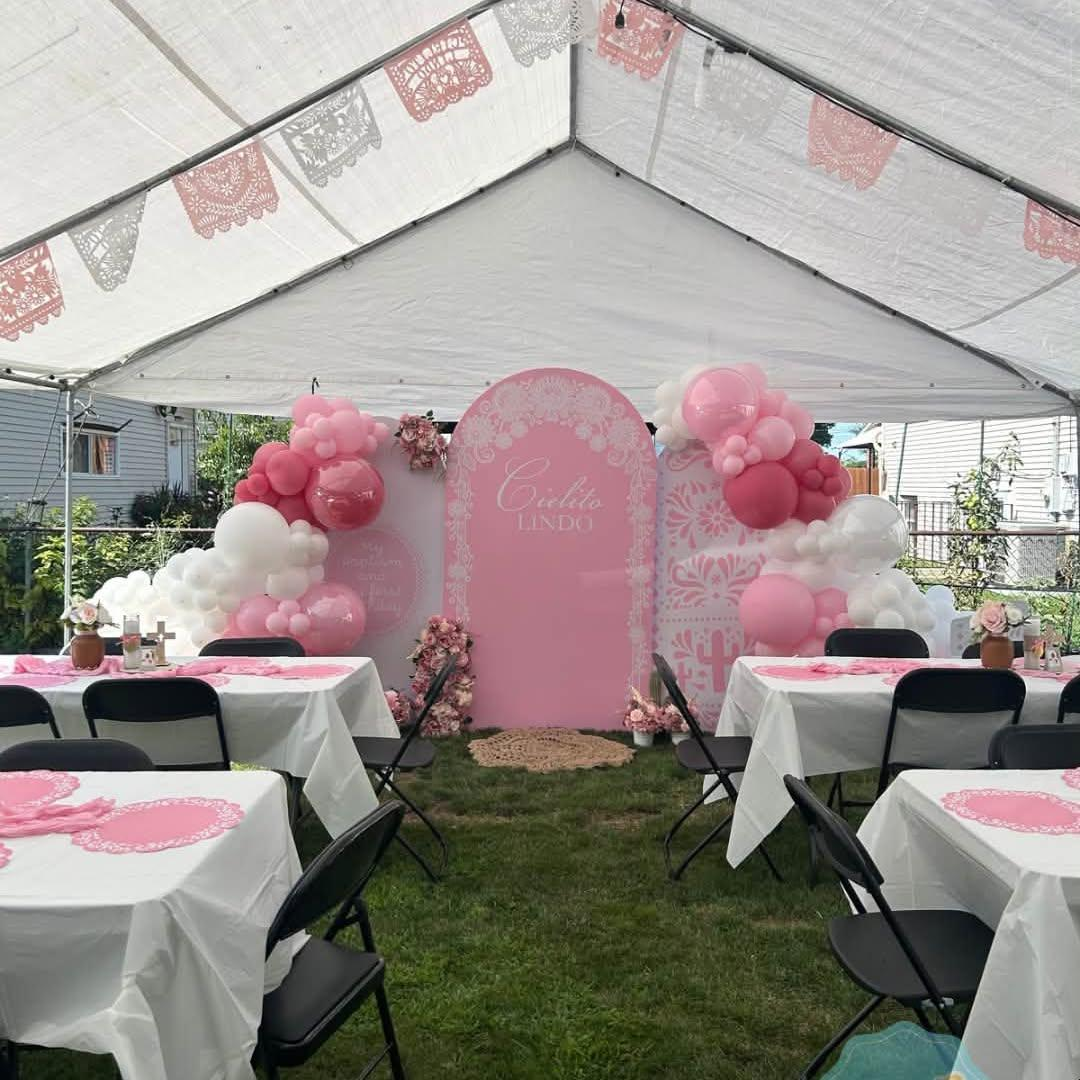
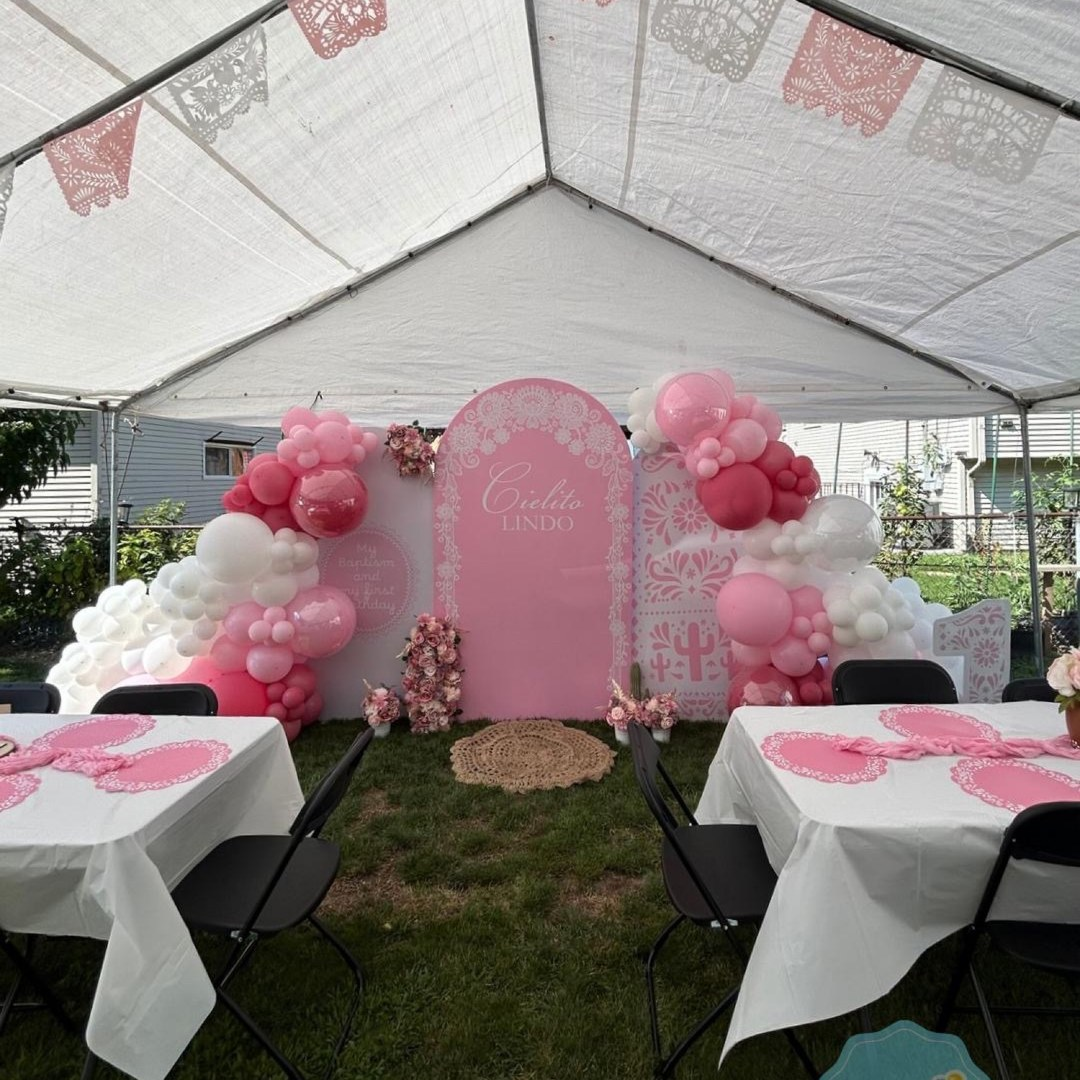
Add Indira and Bride to Be photos; sharper Cielito Lindo

diff --git a/portfolio.html b/portfolio.html
@@ -63,6 +63,9 @@
           <button type="button" class="gallery-item">
             <img src="images/gallery-10.jpg" width="1080" height="1080" alt="Pastel and metallic balloon wall with an Eiffel Tower cutout and birthday lettering.">
           </button>
+          <button type="button" class="gallery-item">
+            <img src="images/gallery-12.jpg" width="1080" height="1080" alt="Blue and yellow balloon garland with lemons and greenery around a Happy Birthday Indira backdrop with blue tile trim.">
+          </button>
         </div>
         <button type="button" class="carousel-btn prev" aria-label="Previous photos">‹</button>
         <button type="button" class="carousel-btn next" aria-label="Next photos">›</button>
@@ -76,7 +79,12 @@
           <button type="button" class="gallery-item">
             <img src="images/gallery-09.jpg" width="1080" height="1080" alt="Olive and cream balloon garland beside a bridal backdrop that reads a tini bit closer to I do.">
           </button>
+          <button type="button" class="gallery-item">
+            <img src="images/gallery-13.jpg" width="1080" height="1080" alt="Pink, lavender, and cream balloon garland around a white arch backdrop that reads Bride to Be.">
+          </button>
         </div>
+        <button type="button" class="carousel-btn prev" aria-label="Previous photos">‹</button>
+        <button type="button" class="carousel-btn next" aria-label="Next photos">›</button>
       </div>
     </section>
 
